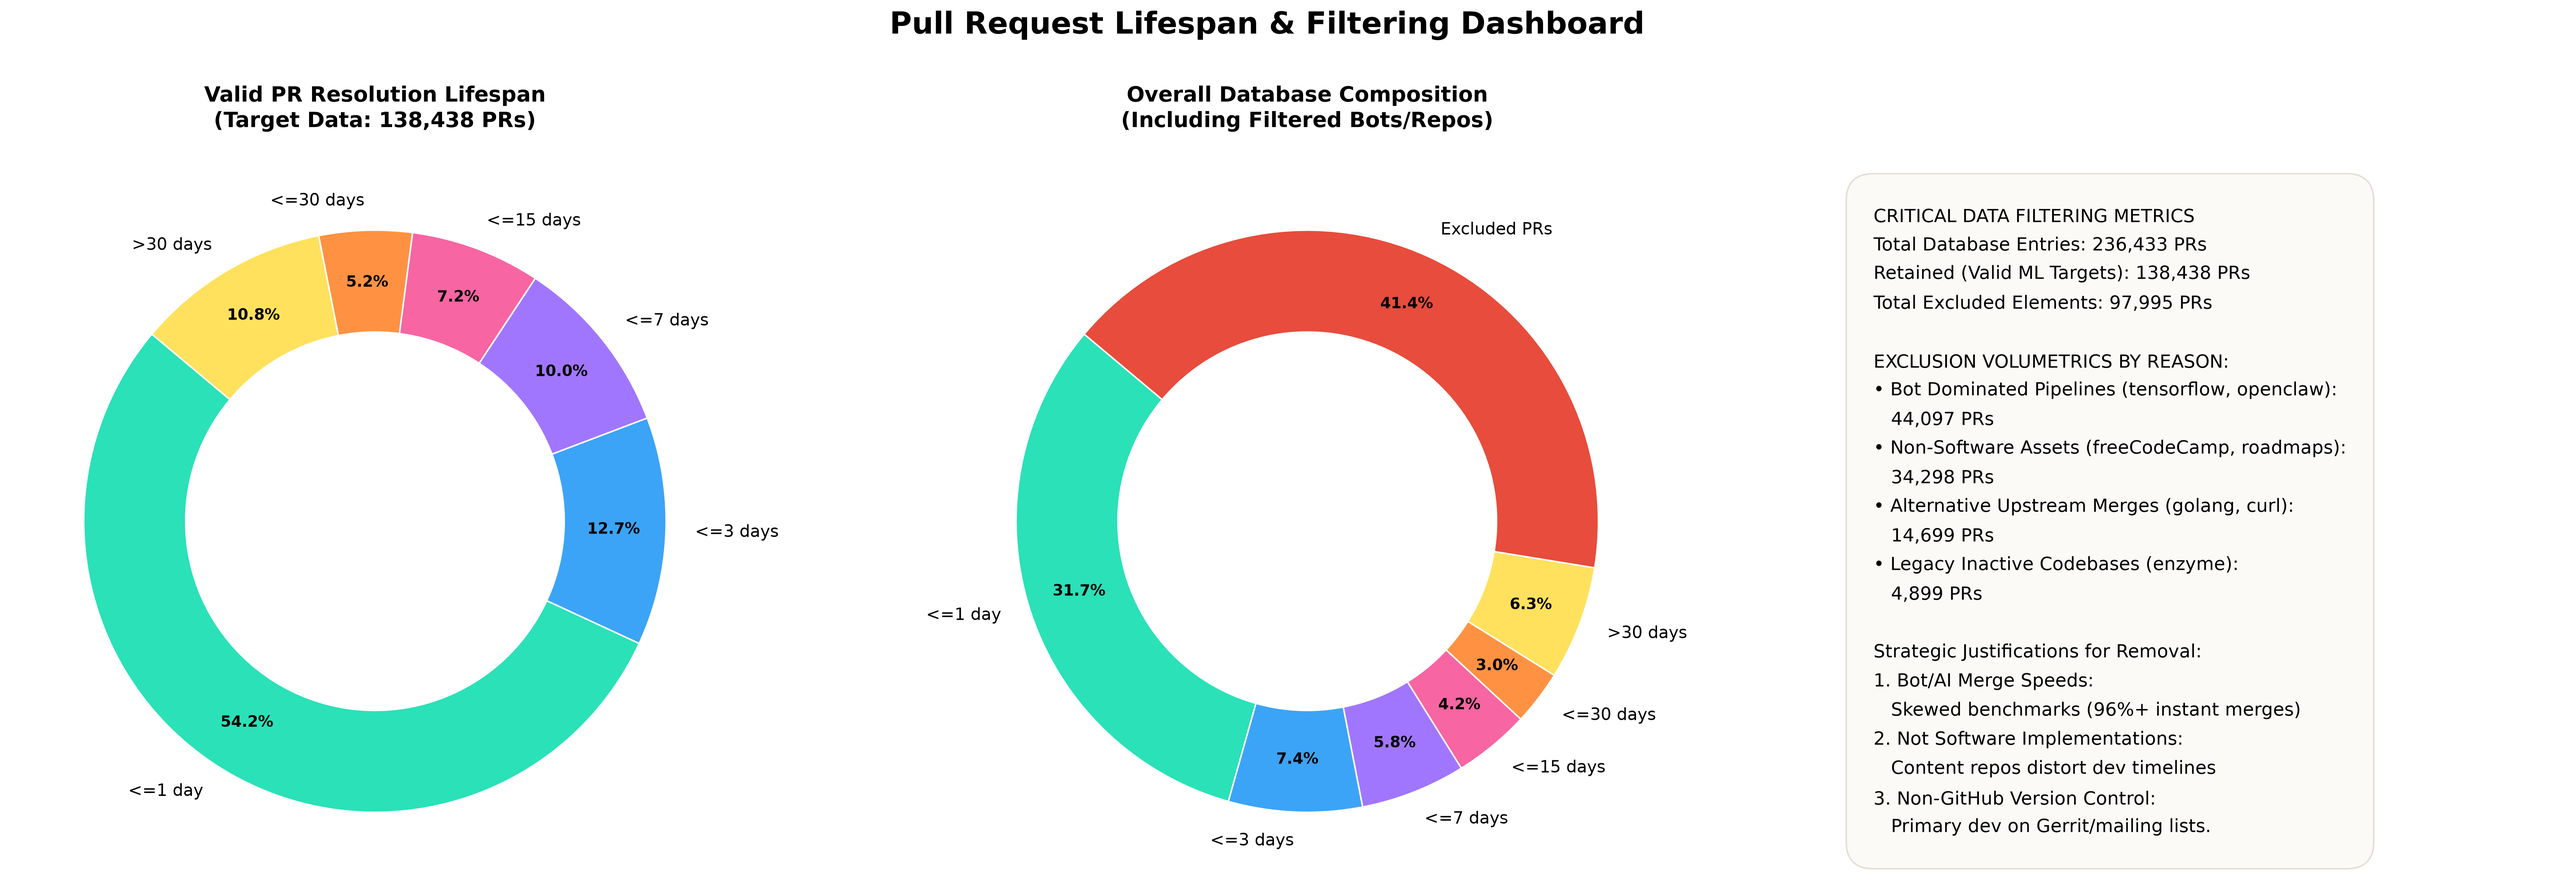
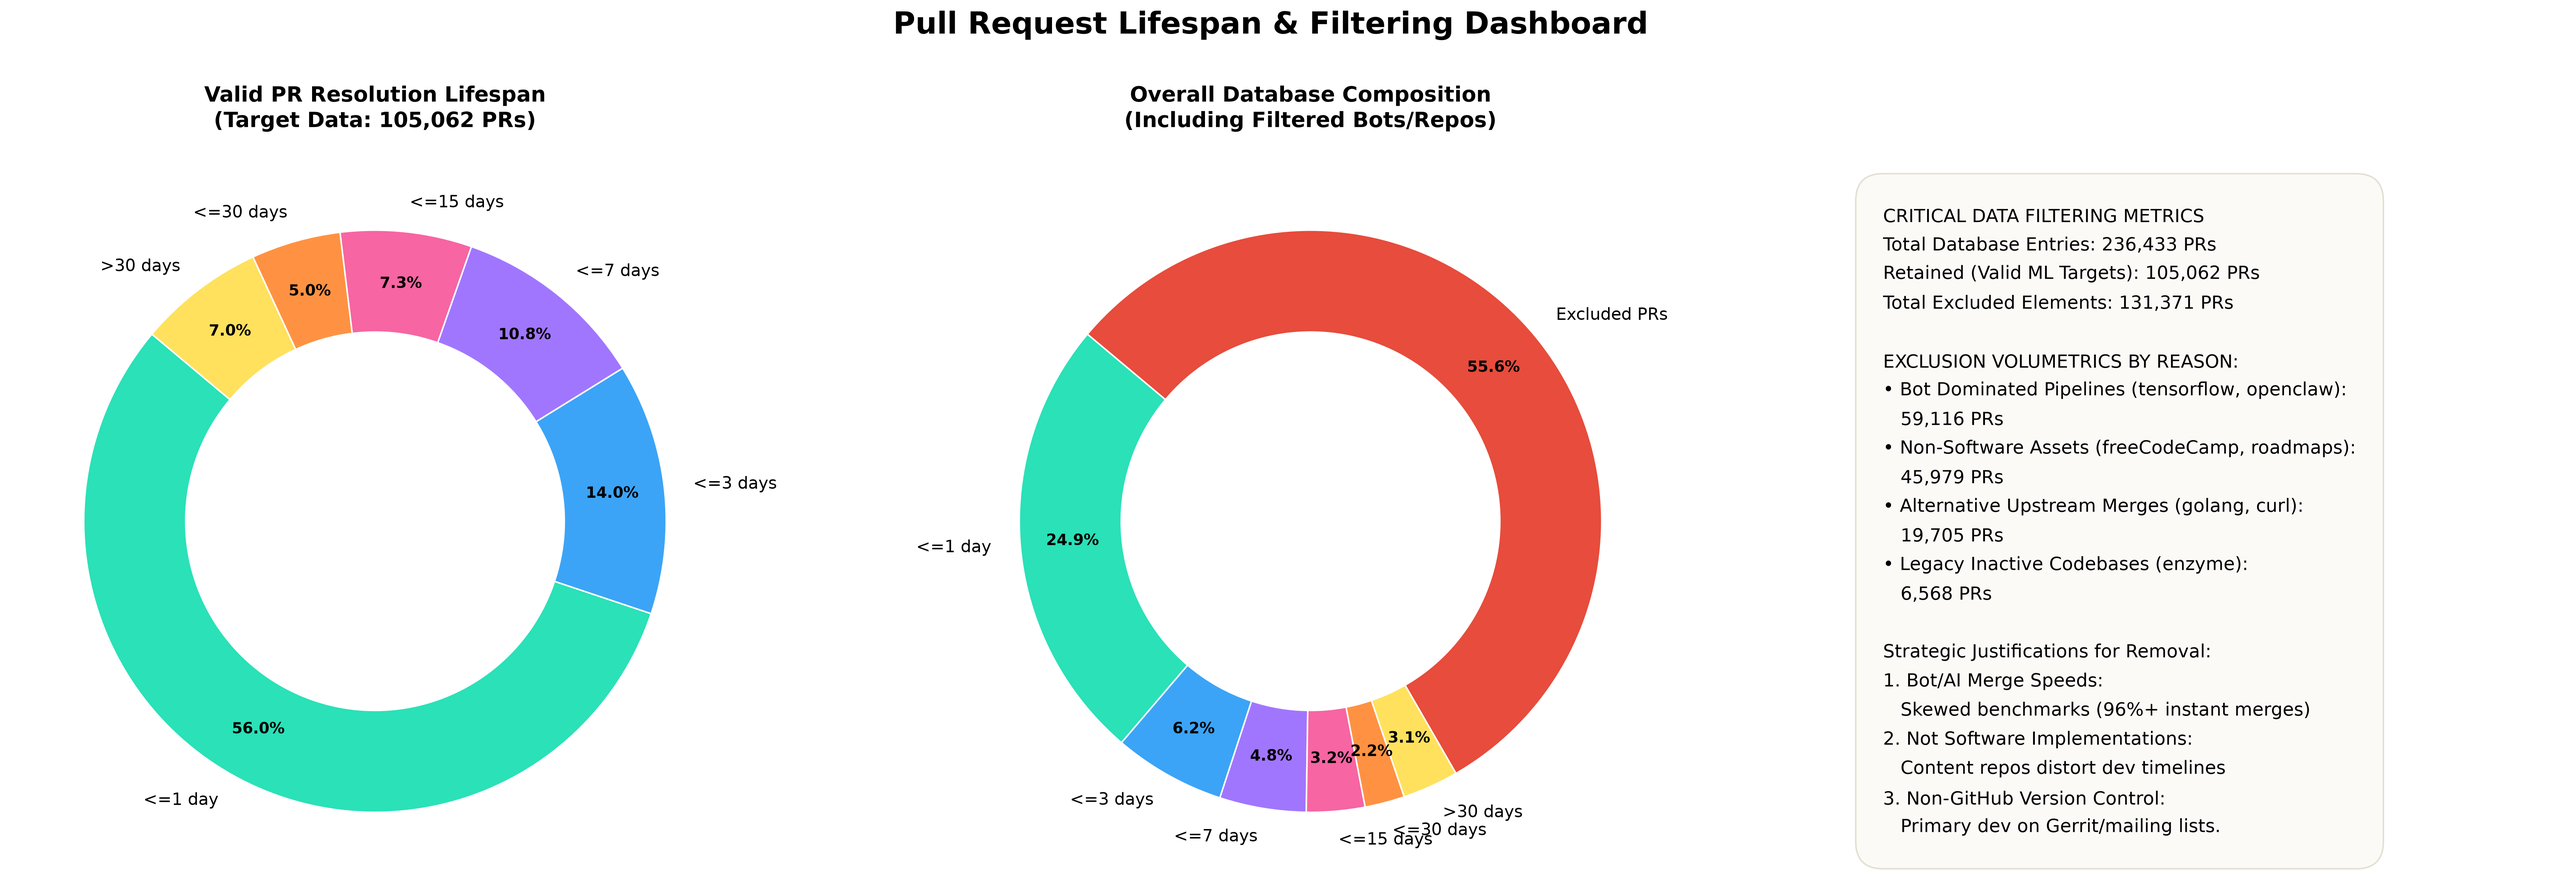
changes

diff --git a/src/data_cleaning/pr_date_count.py b/src/data_cleaning/pr_date_count.py
@@ -3,66 +3,51 @@ import csv
 
 DB_PATH = "data/raw/pr_data.db"
 
+QUERY = """
+    WITH PR_Diffs AS (
+        SELECT
+            r.owner || '/' || r.name AS repo_name,
+            (julianday(p.merged_at) - julianday(p.created_at)) AS diff_days
+        FROM repos r
+        JOIN pull_requests p ON r.id = p.repo_id
+        WHERE p.merged_at IS NOT NULL
+          AND p.created_at IS NOT NULL
+          AND p.exclude_reason IS NULL
+          AND r.exclude_reason IS NULL
+          AND p.author_type IS NOT 'Bot'
+    )
+    SELECT
+        repo_name,
+        SUM(CASE WHEN diff_days <= 1 THEN 1 ELSE 0 END) AS within_1_day,
+        SUM(CASE WHEN diff_days > 1 AND diff_days <= 3 THEN 1 ELSE 0 END) AS within_3_days,
+        SUM(CASE WHEN diff_days > 3 AND diff_days <= 7 THEN 1 ELSE 0 END) AS within_7_days,
+        SUM(CASE WHEN diff_days > 7 AND diff_days <= 15 THEN 1 ELSE 0 END) AS within_15_days,
+        SUM(CASE WHEN diff_days > 15 AND diff_days <= 30 THEN 1 ELSE 0 END) AS within_30_days,
+        SUM(CASE WHEN diff_days > 30 THEN 1 ELSE 0 END) AS over_30_days,
+        COUNT(*) AS total_valid_prs
+    FROM PR_Diffs
+    GROUP BY repo_name
+    ORDER BY repo_name;
+"""
+
+
 def main():
     conn = sqlite3.connect(DB_PATH)
-    
-    # Using a CTE (WITH clause) to calculate the difference first, 
-    # then grouping it by repo and bucketing the days.
-    query = """
-        WITH PR_Diffs AS (
-            SELECT 
-                r.owner,
-                r.name AS repo_name,
-                (julianday(p.closed_at) - julianday(p.created_at)) AS diff_days
-            FROM repos r
-            JOIN pull_requests p ON r.id = p.repo_id
-            WHERE p.closed_at IS NOT NULL 
-              AND p.created_at IS NOT NULL 
-              AND p.exclude_reason IS NULL 
-              AND r.exclude_reason IS NULL
-              AND p.author_type != 'Bot'
-        )
-        SELECT 
-            repo_name,
-            SUM(CASE WHEN diff_days <= 1 THEN 1 ELSE 0 END) AS within_1_day,
-            SUM(CASE WHEN diff_days > 1 AND diff_days <= 3 THEN 1 ELSE 0 END) AS within_3_days,
-            SUM(CASE WHEN diff_days > 3 AND diff_days <= 7 THEN 1 ELSE 0 END) AS within_7_days,
-            SUM(CASE WHEN diff_days > 7 AND diff_days <= 15 THEN 1 ELSE 0 END) AS within_15_days,
-            SUM(CASE WHEN diff_days > 15 AND diff_days <= 30 THEN 1 ELSE 0 END) AS within_30_days,
-            SUM(CASE WHEN diff_days > 30 THEN 1 ELSE 0 END) AS over_30_days,
-            COUNT(*) AS total_valid_prs
-        FROM PR_Diffs
-        GROUP BY repo_name
-        ORDER BY repo_name;
-    """
-    
-    cursor = conn.execute(query)
-    
-    # Let's print a header row so the terminal output makes sense
-    print(f"{'Repository':<25} | {'<=1d':<5} | {'<=3d':<5} | {'<=7d':<5} | {'<=15d':<5} | {'<=30d':<5} | {'>30d':<5} | {'Total'}")
-    print("-" * 85)
-    
-    for row in cursor:
-        repo_name = row[0]
-        # Unpack the rest of the row (the counts)
-        d1, d3, d7, d15, d30, over_30, total = row[1:] 
-        
-        # Format the output nicely
-        print(f"{repo_name:<25} | {d1:<5} | {d3:<5} | {d7:<5} | {d15:<5} | {d30:<5} | {over_30:<5} | {total}")
-
-    with open("data/raw/pr_time_distribution.csv", "w", newline="") as csvfile:
-        csv_writer = csv.writer(csvfile)
-        # Write the header
-        csv_writer.writerow(["Repository", "<=1 day", "<=3 days", "<=7 days", "<=15 days", "<=30 days", ">30 days", "Total"])
-        
-        # Reset the cursor to fetch the data again for CSV writing
-        cursor = conn.execute(query)
-        
-        for row in cursor:
-            csv_writer.writerow(row)
-    
+    rows = conn.execute(QUERY).fetchall()  # fetch once, reuse for both print and CSV
     conn.close()
 
-    
+    print(f"{'Repository':<35} | {'<=1d':<5} | {'<=3d':<5} | {'<=7d':<5} | {'<=15d':<5} | {'<=30d':<5} | {'>30d':<5} | {'Total'}")
+    print("-" * 100)
+    for repo_name, d1, d3, d7, d15, d30, over_30, total in rows:
+        print(f"{repo_name:<35} | {d1:<5} | {d3:<5} | {d7:<5} | {d15:<5} | {d30:<5} | {over_30:<5} | {total}")
+
+    with open("data/raw/pr_time_distribution.csv", "w", newline="") as csvfile:
+        w = csv.writer(csvfile)
+        w.writerow(["Repository", "<=1 day", "<=3 days", "<=7 days", "<=15 days", "<=30 days", ">30 days", "Total"])
+        w.writerows(rows)
+
+    print(f"\nsaved data/raw/pr_time_distribution.csv ({len(rows)} repos)")
+
+
 if __name__ == "__main__":
     main()

diff --git a/src/data_cleaning/state_count.py b/src/data_cleaning/state_count.py
@@ -1,0 +1,38 @@
+import sqlite3
+import csv 
+
+DB_PATH = "data/raw/pr_data.db"
+
+QUERY = """
+SELECT
+    r.owner || '/' || r.name AS repo_name,
+    SUM(CASE WHEN p.state = 'MERGED' THEN 1 ELSE 0 END) AS merged_count,
+    SUM(CASE WHEN p.state = 'CLOSED' THEN 1 ELSE 0 END) AS closed_without_merge,
+    SUM(CASE WHEN p.state = 'OPEN' THEN 1 ELSE 0 END) AS still_open,
+    COUNT(*) AS total
+FROM repos r
+JOIN pull_requests p ON r.id = p.repo_id
+WHERE p.exclude_reason IS NULL
+  AND r.exclude_reason IS NULL
+  AND p.author_type IS NOT 'Bot'
+GROUP BY repo_name
+ORDER BY repo_name;
+"""
+
+
+def main():
+    conn = sqlite3.connect(DB_PATH)
+    rows = conn.execute(QUERY).fetchall()
+       
+    for repo_name, merged_count, closed_without_merge, still_open, total in rows:
+        print(repo_name,":", merged_count,":", closed_without_merge,":", still_open,":", total)
+          
+    with open("data/raw/state.csv","w",newline="") as file:
+        w = csv.writer(file)
+        w.writerow(["Repositery","Merged Count", "Closed Without Merged","Still Open","Total"])
+        w.writerows(rows)
+    print(f"\nsaved data/raw/state.csv ({len(rows)} repos)")   
+
+if __name__ == "__main__":
+    main()
+    
